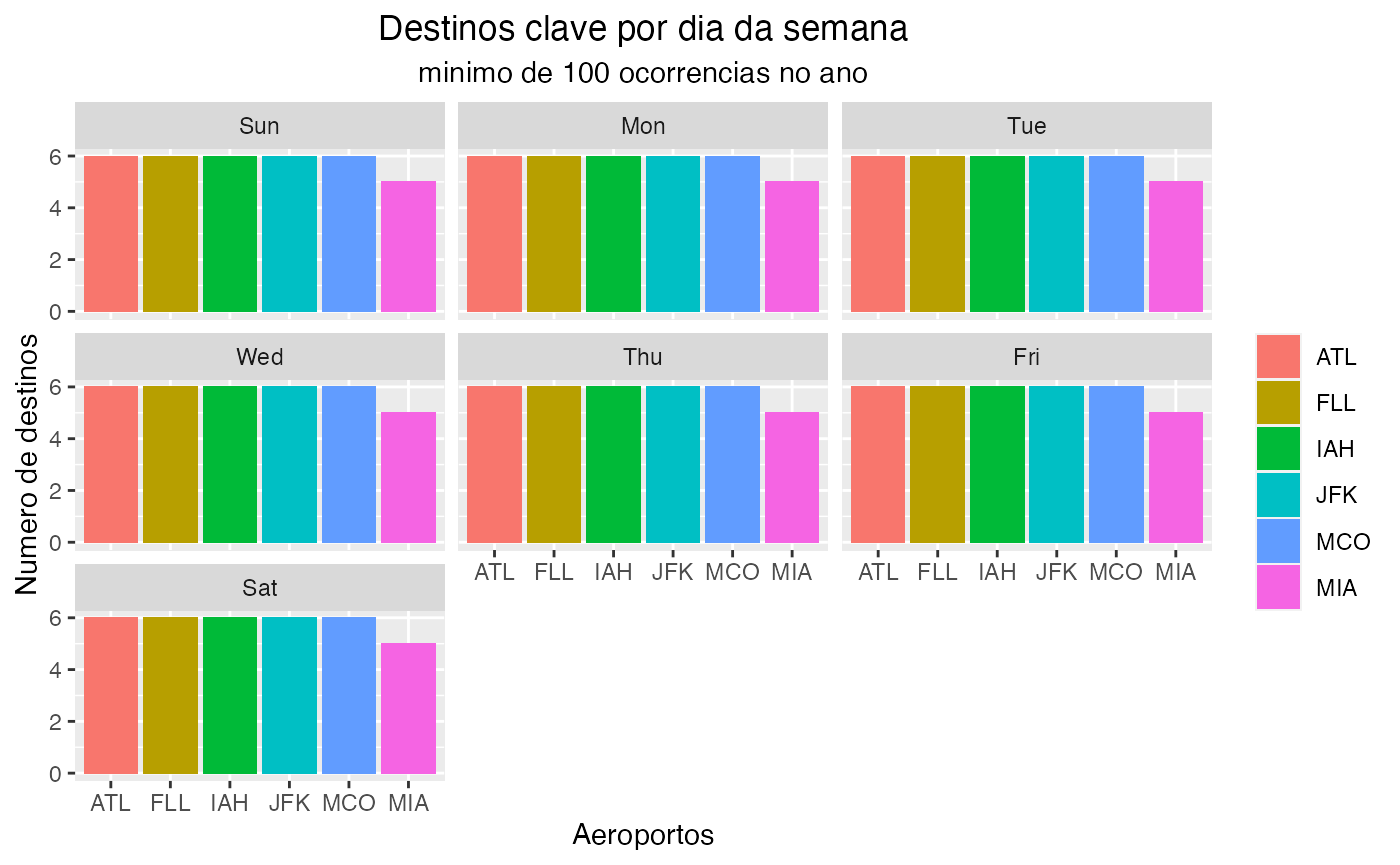
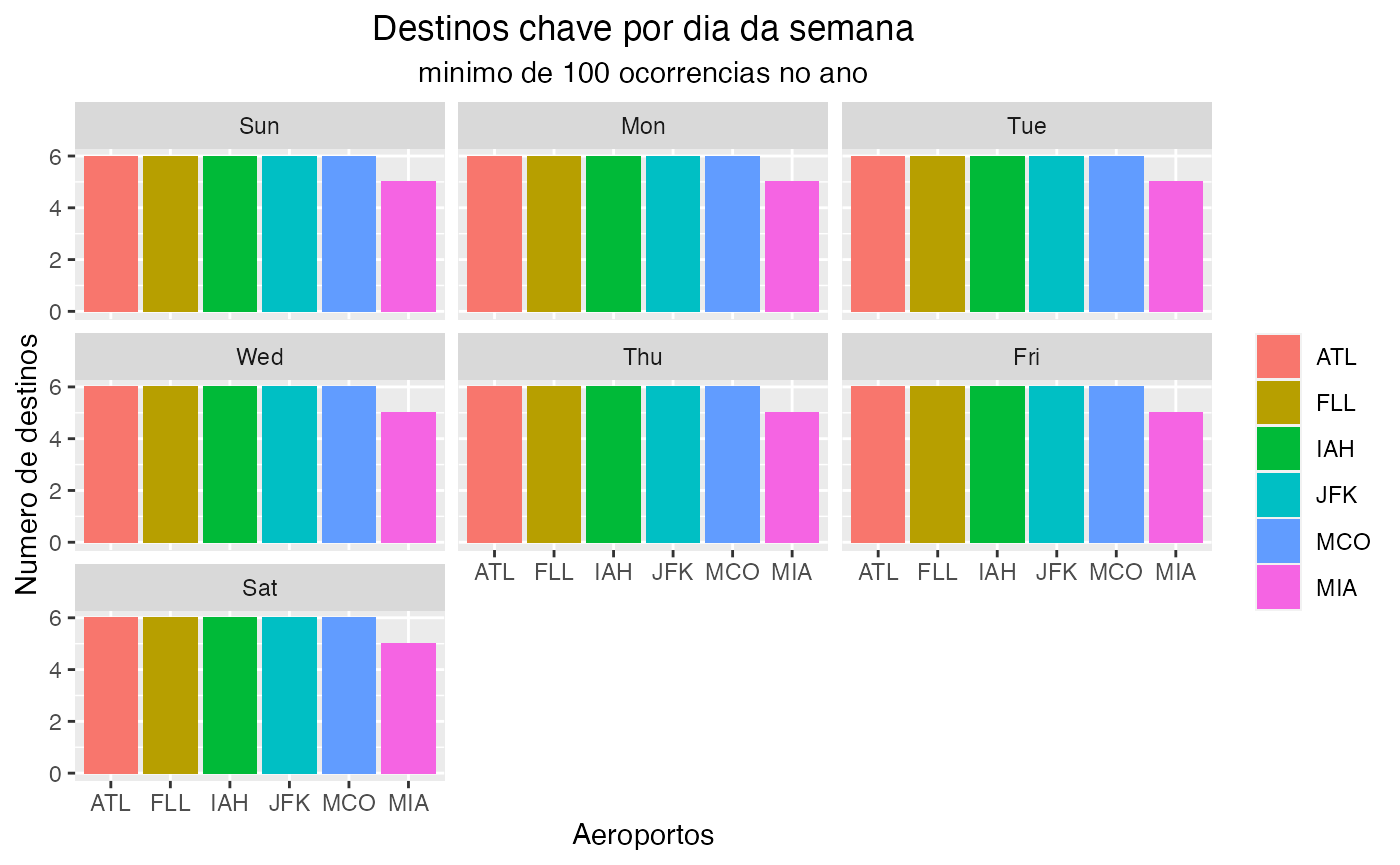
Built site for tccR4ds2: 0.0.0.9000@df8cc7b

Changed region(s): [[0.2764, 0.0, 0.645, 0.0624]]

diff --git a/articles/funcoes.html b/articles/funcoes.html
@@ -130,7 +130,7 @@
 <div class="sourceCode" id="cb4"><pre class="downlit sourceCode r">
 <code class="sourceCode R">
 <span class="co">#Destino semana</span>
-<span class="fu"><a href="../reference/destinos_semana.html">destinos_semana</a></span><span class="op">(</span>destinos <span class="op">=</span> <span class="fu"><a href="https://rdrr.io/r/base/c.html">c</a></span><span class="op">(</span><span class="st">'SFO'</span>, <span class="st">'LAX'</span>, <span class="st">'LAS'</span>, <span class="st">'BOS'</span>, <span class="st">'IAD'</span>,<span class="st">'ORD'</span><span class="op">)</span>, min_ocorencias <span class="op">=</span> <span class="fl">100</span>,title <span class="op">=</span> <span class="st">"Destinos clave por dia da semana"</span><span class="op">)</span></code></pre></div>
+<span class="fu"><a href="../reference/destinos_semana.html">destinos_semana</a></span><span class="op">(</span>destinos <span class="op">=</span> <span class="fu"><a href="https://rdrr.io/r/base/c.html">c</a></span><span class="op">(</span><span class="st">'SFO'</span>, <span class="st">'LAX'</span>, <span class="st">'LAS'</span>, <span class="st">'BOS'</span>, <span class="st">'IAD'</span>,<span class="st">'ORD'</span><span class="op">)</span>, min_ocorencias <span class="op">=</span> <span class="fl">100</span>,title <span class="op">=</span> <span class="st">"Destinos chave por dia da semana"</span><span class="op">)</span></code></pre></div>
 <p><img src="funcoes_files/figure-html/setup-4.png" width="700"></p>
   </div>
 
